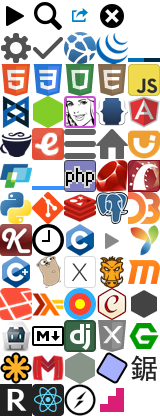
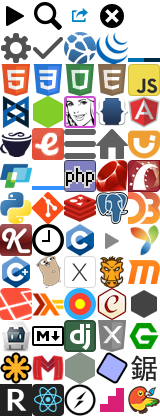
Add Bower documentation

Changed region(s): [[0.7812, 0.9062, 1.0, 1.0]]

diff --git a/assets/stylesheets/global/_icons.scss b/assets/stylesheets/global/_icons.scss
@@ -76,3 +76,4 @@
 ._icon-react:before         { background-position: -1rem -12rem; }
 ._icon-socketio:before      { background-position: -2rem -12rem; }
 ._icon-modernizr:before     { background-position: -3rem -12rem; }
+._icon-bower:before         { background-position: -4rem -12rem; }

diff --git a/assets/stylesheets/application.css.scss b/assets/stylesheets/application.css.scss
@@ -29,6 +29,7 @@
         'components/mobile';
 
 @import 'pages/angular',
+        'pages/bower',
         'pages/c',
         'pages/chai',
         'pages/coffeescript',

diff --git a/assets/stylesheets/pages/_bower.scss b/assets/stylesheets/pages/_bower.scss
@@ -1,0 +1,7 @@
+._bower {
+  h2 { @extend %block-heading; }
+  h3 { @extend %block-label, %label-blue; }
+  h4 { @extend %block-label; }
+
+  code { @extend %label; }
+}

diff --git a/lib/docs/filters/bower/entries.rb b/lib/docs/filters/bower/entries.rb
@@ -1,0 +1,26 @@
+module Docs
+  class Bower
+    class EntriesFilter < Docs::EntriesFilter
+      ENTRIES_TYPE_BY_SLUG = {
+        'api'    => 'Commands',
+        'config' => '.bowerrc'
+      }
+
+      def get_name
+        at_css('h1').content
+      end
+
+      def get_type
+        'Guides'
+      end
+
+      def additional_entries
+        return [] unless type = ENTRIES_TYPE_BY_SLUG[slug]
+
+        css('#bowerrc-specification + ul a', '#commands + p + ul a').map do |node|
+          [node.content, node['href'].remove('#'), type]
+        end
+      end
+    end
+  end
+end

diff --git a/lib/docs/scrapers/bower.rb b/lib/docs/scrapers/bower.rb
@@ -1,0 +1,19 @@
+module Docs
+  class Bower < UrlScraper
+    self.name = 'Bower'
+    self.type = 'bower'
+    self.version = '1.3.12'
+    self.base_url = 'http://bower.io/docs/'
+    self.root_path = 'api'
+
+    html_filters.push 'bower/clean_html', 'bower/entries'
+
+    options[:trailing_slash] = false
+    options[:skip] = %w(tools about)
+
+    options[:attribution] = <<-HTML
+      &copy; 2014 Bower contributors<br>
+      Licensed under the Creative Commons Attribution License.
+    HTML
+  end
+end

diff --git a/lib/docs/filters/bower/clean_html.rb b/lib/docs/filters/bower/clean_html.rb
@@ -1,0 +1,21 @@
+module Docs
+  class Bower
+    class CleanHtmlFilter < Filter
+      def call
+        title = at_css('.page-title')
+        @doc = at_css('.main')
+        doc.child.before(title)
+
+        css('.site-footer').remove
+
+        css('.highlight').each do |node|
+          node.name = 'pre'
+          node['data-lang'] = node.at_css('[data-lang]')['data-lang']
+          node.content = node.content
+        end
+
+        doc
+      end
+    end
+  end
+end
